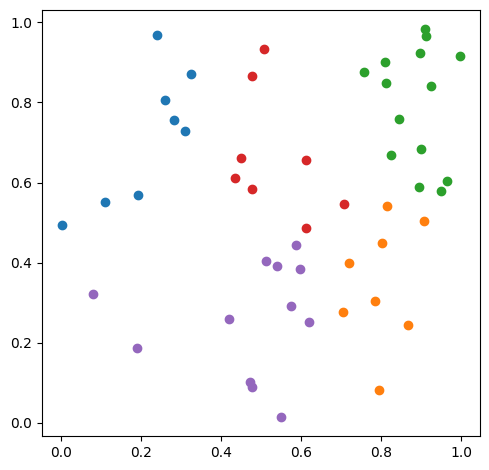
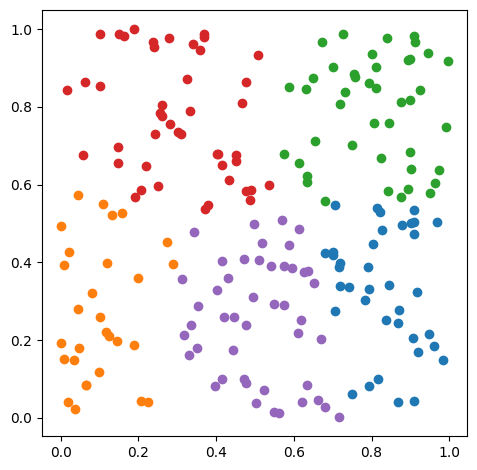
add: k_means++ algorithm and mod slitely...

diff --git a/geometric_misc/k_means/km2.py b/geometric_misc/k_means/km2.py
@@ -1,6 +1,8 @@
 from random import random, randint, seed
 from matplotlib import pyplot as plt
 from matplotlib.colors import TABLEAU_COLORS
+from shapely.geometry import MultiPoint
+from descartes.patch import PolygonPatch
 
 
 def k_means(pts, k, s=None):
@@ -32,8 +34,9 @@ def _get_centers(cluster, k):
     m = {i: (0, 0, 0) for i in range(k)}
     for (x, y), i in cluster.items():
         m[i] = (m[i][0]+x, m[i][1]+y, m[i][2]+1)
-    return {i: (m[i][0]/m[i][2], m[i][1]/m[i][2]) if m[i][2] else (float('inf'), float('inf')) for i in m}
-    
+    return {i: (m[i][0]/m[i][2], m[i][1]/m[i][2])
+            if m[i][2] else (float('inf'), float('inf')) for i in m}
+
 
 def _norm(x0, y0, x1, y1):
     return (x0-x1)**2 + (y0-y1)**2
@@ -41,25 +44,36 @@ def _norm(x0, y0, x1, y1):
 
 colors = list(TABLEAU_COLORS.values())
 
-
-def draw_cluster(clusters, interval=1.5):
+cnt = 0
+def draw_cluster(clusters, interval=.5):
     global colors
+    global cnt
+    cnt += 1
     plt.cla()
     plt.gca().set_aspect('equal')
     plt.tight_layout()
-    for i in range(k): 
-        pi = [p for p, j in clusters.items() if i==j]
+    for i in range(k):
+        pi = [p for p, j in clusters.items() if i == j]
         plt.scatter([x for x, _ in pi], [y for _, y in pi], c=colors[i])
+        if len(pi) > 2:
+            ch = PolygonPatch(MultiPoint(pi).convex_hull, alpha=0.1, zorder=-2,
+                              facecolor=colors[i], edgecolor=colors[i])
+            plt.gca().add_patch(ch)
     plt.draw()
+    plt.savefig(f'k_means_anim_{cnt}.png', bbox_inches='tight')
     plt.pause(interval)
 
 
 def gen(n, s):
     seed(s)
-    return [(random(), random()) for i in range(n)] 
+    return [(random(), random()) for i in range(n)]
 
 
 if __name__ == '__main__':
-    n, k, s = 50, 5, 0
+    n, k, s = 100, 5, 0
+    plt.scatter([0], [0])
+    plt.draw()
+    plt.savefig(f'k_means_anim_{cnt}.png', bbox_inches='tight')
+    plt.pause(0.1)
     clusters = k_means(gen(n, s), k, s)
     plt.show()

diff --git a/geometric_misc/k_means/kmpp1.py b/geometric_misc/k_means/kmpp1.py
@@ -1,10 +1,34 @@
-from random import random, randint, seed
+from random import random, randint, seed, uniform
 from matplotlib import pyplot as plt
 from matplotlib.colors import TABLEAU_COLORS
 
 
-def k_means(pts, k, s=None):
-    clusters = _random_arrange(pts, k, s)
+def k_means_pp_centers(pts, k):
+    centers = [pts[randint(0, len(pts)-1)]]
+    while len(centers) < k:
+        centers.append(pts[_pickup(_get_distribution(pts, centers))])
+    return {p : min((_norm(*p, *pc), i) for i, pc in enumerate(centers))[1]
+            for p in pts}
+
+
+def _pickup(dist):
+    if (pivot := uniform(0, dist[-1][0])) < dist[0][0]:
+        return 0
+    for i in range(1, len(dist)):
+        if dist[i-1][0] < pivot and pivot <= dist[i][0]:
+            return dist[i][1]
+
+
+def _get_distribution(pts, centers):
+    s = [(min(_norm(*p, *pc) for pc in centers), i) for i, p in enumerate(pts)]
+    for i in range(1, len(s)):
+        s[i] = (s[i-1][0]+s[i][0], s[i][1])
+    return s
+
+
+def k_means(pts, k, clusters=None, s=None):
+    if clusters is None:
+        clusters = _random_arrange(pts, k, s)
     while _rearrange(clusters, k):
         pass
     return clusters
@@ -41,8 +65,10 @@ def gen(n, s):
 
 
 if __name__ == '__main__':
-    n, k, s = 50, 5, 0
-    clusters = k_means(gen(n, s), k, s)
+    n, k, s = 200, 5, 0
+    pts = gen(n, s)
+#    clusters = k_means(pts, k, s=s)
+    clusters = k_means(pts, k, clusters=k_means_pp_centers(pts, k))
 
     colors = list(TABLEAU_COLORS.values())
     for i in range(k):
@@ -51,5 +77,5 @@ if __name__ == '__main__':
 
     plt.gca().set_aspect('equal')
     plt.tight_layout()
-    #plt.savefig('k_means_ex1.png', bbox_inches='tight')
+    plt.savefig('k_means_ex1.png', bbox_inches='tight')
     plt.show()
